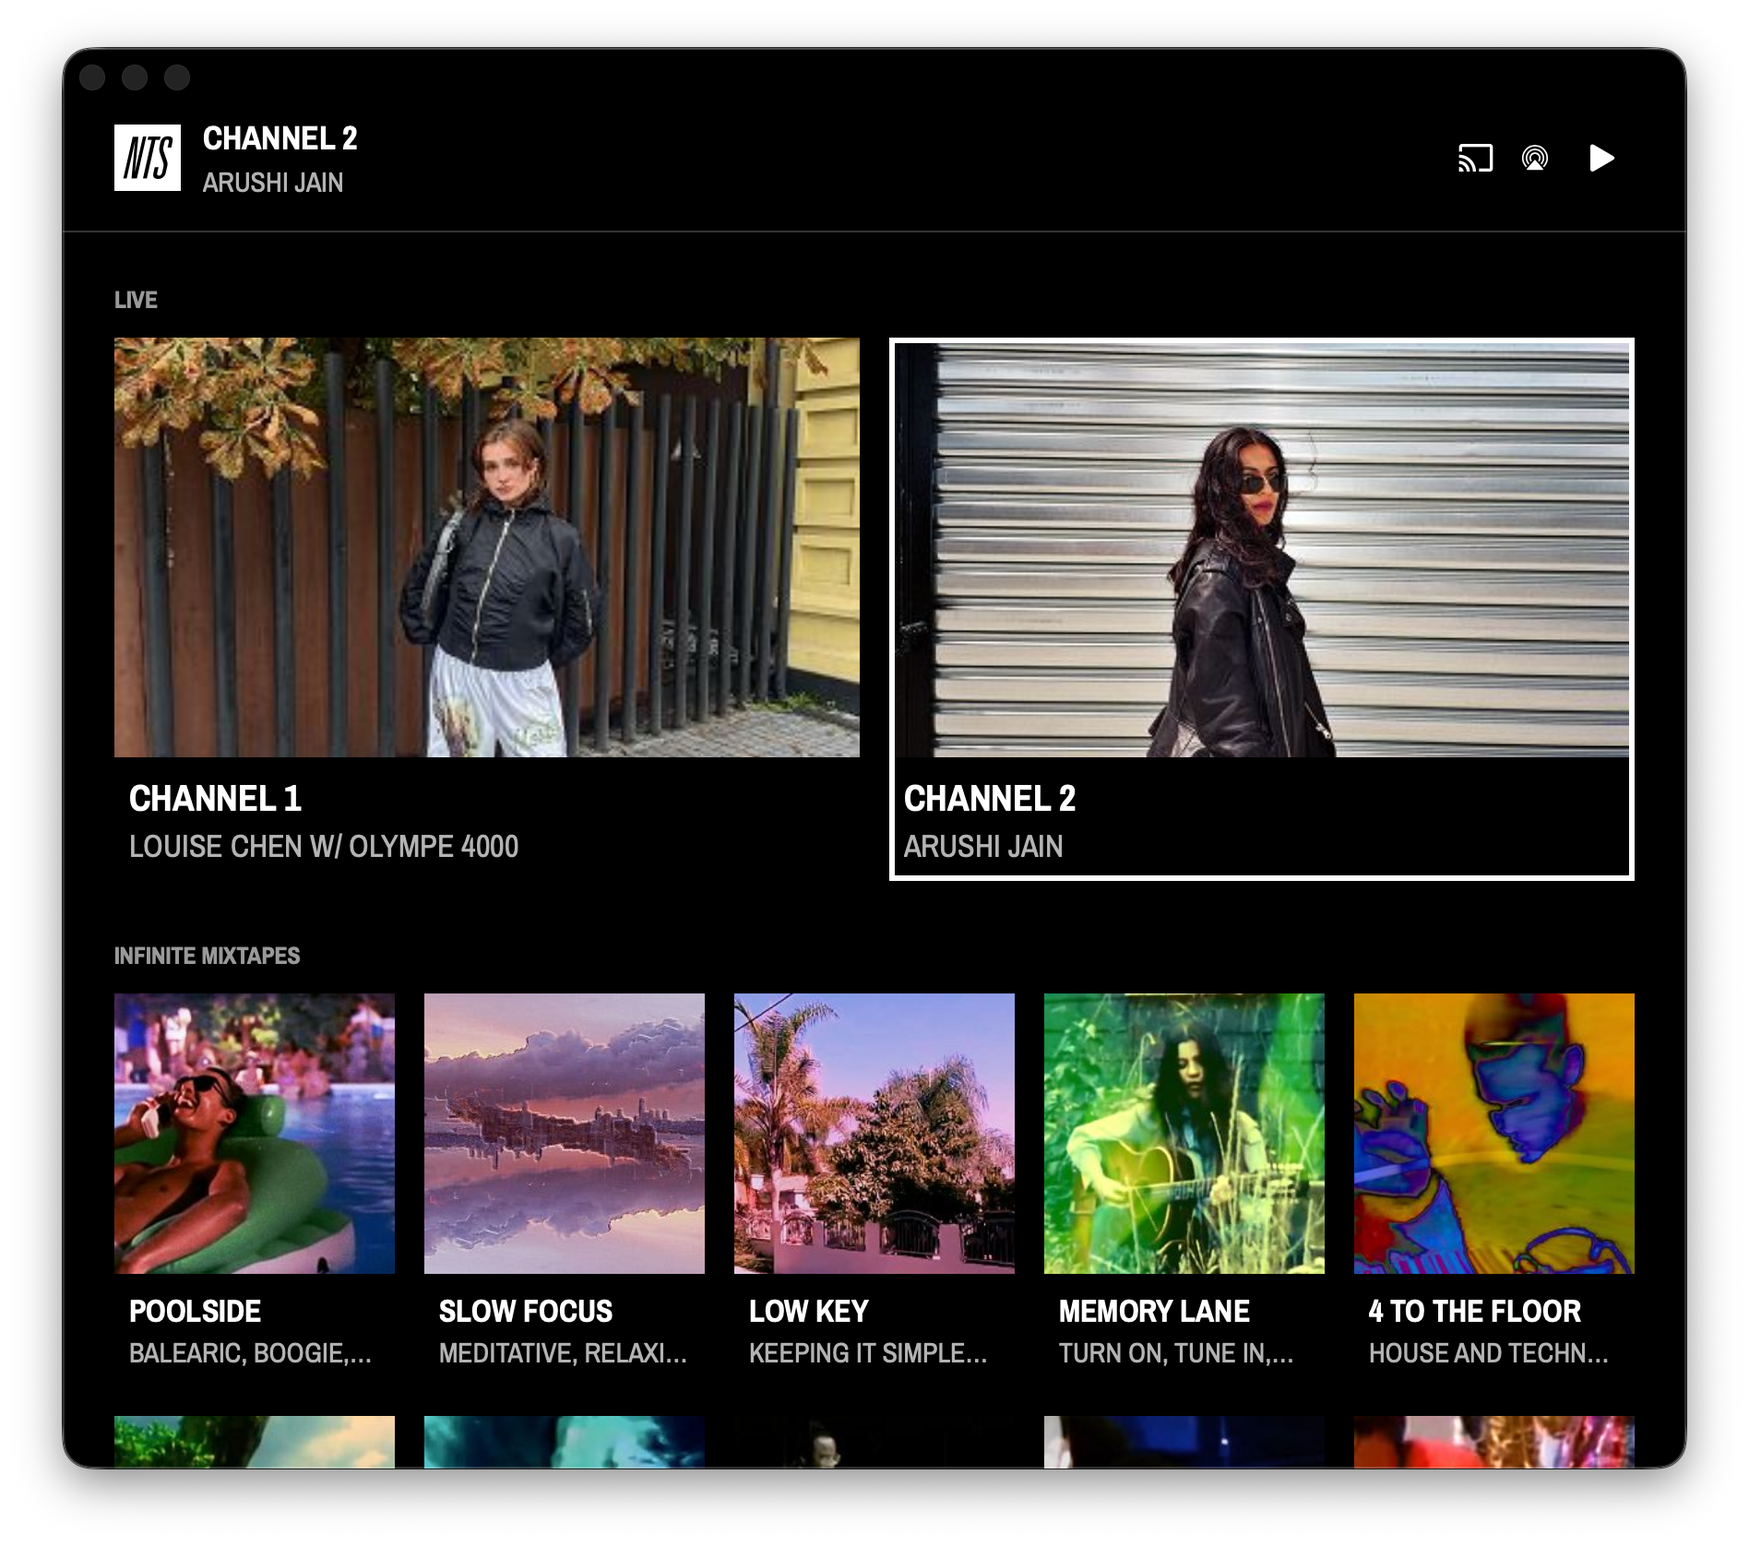
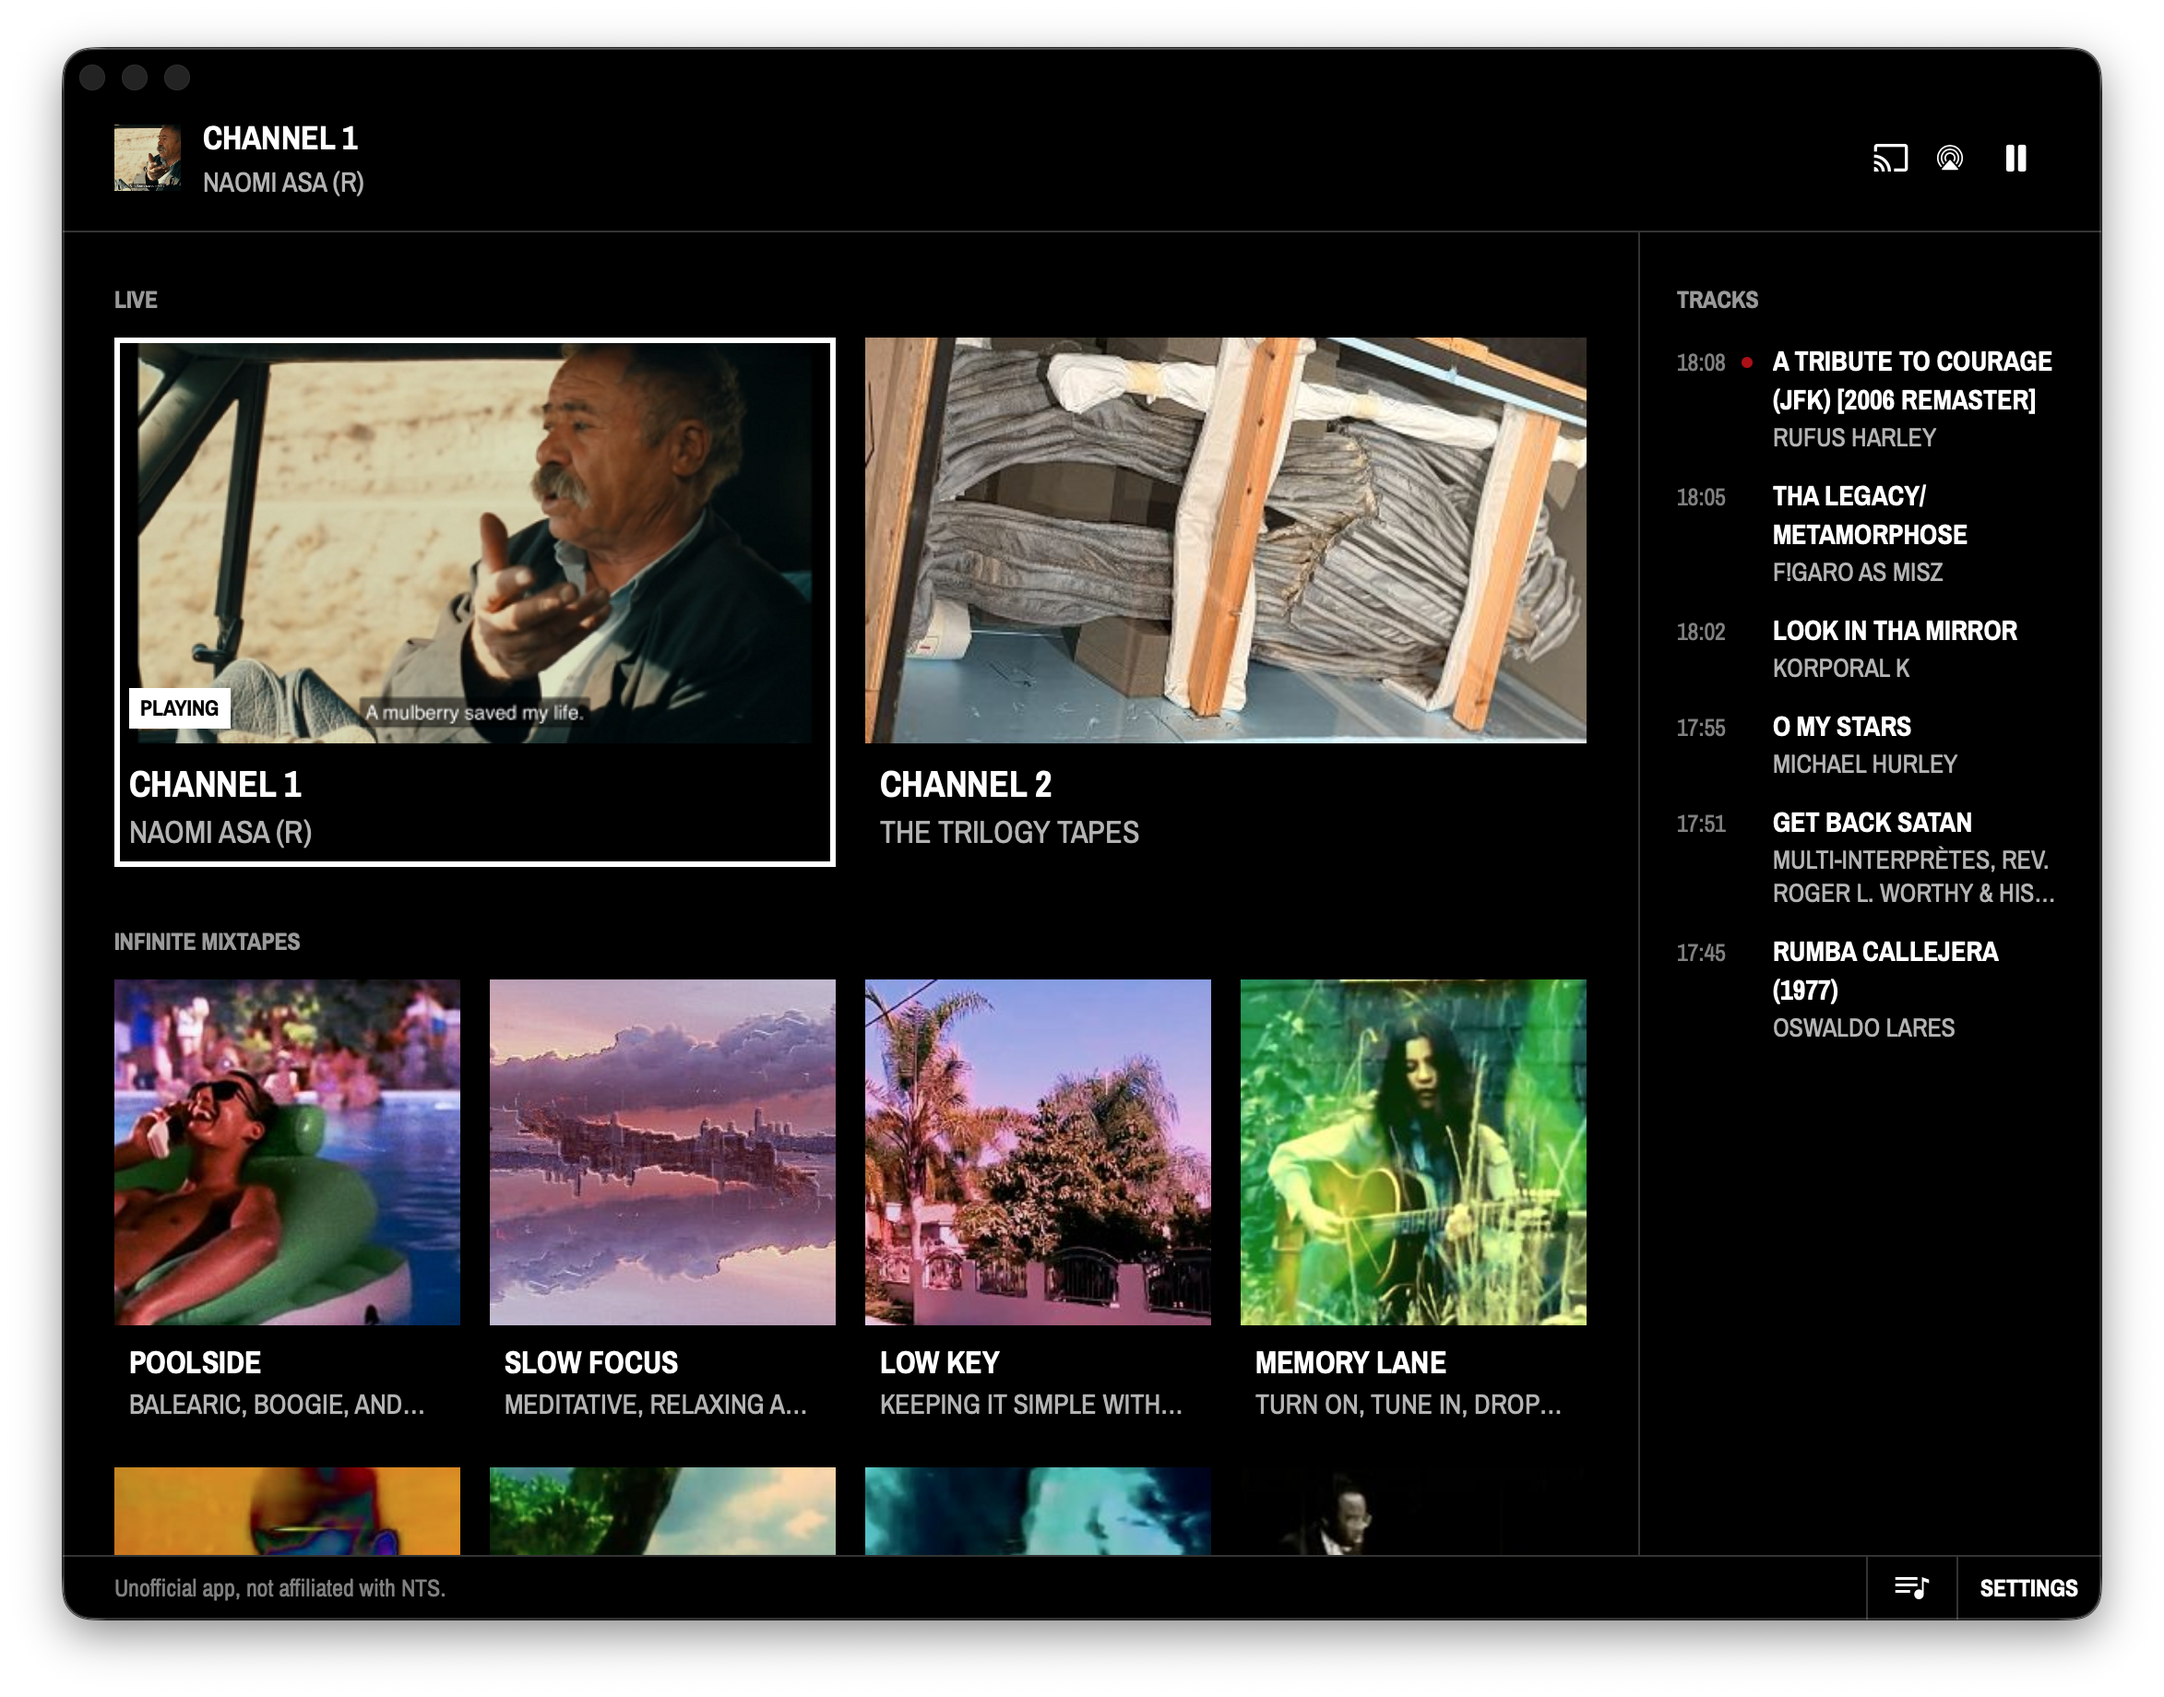
Describe tracks in the README with new screenshots

diff --git a/README.md b/README.md
@@ -13,21 +13,39 @@
   <a href="https://github.com/sanderjn/nts-mac/releases/latest/download/NTS.dmg"><b>Download NTS for Mac</b></a>
 </p>
 
-Listen to [NTS](https://www.nts.live) from the menu bar: both live channels and the Infinite Mixtapes, on your Mac, a Chromecast, a Google speaker or an AirPlay device. Native Swift and SwiftUI, no Electron, no tracking, and no account needed to listen.
+Listen to [NTS](https://www.nts.live) from the menu bar: both live channels and the Infinite Mixtapes, on your Mac, a Chromecast, a Google speaker or an AirPlay device. NTS Supporters also see which track is playing. Native Swift and SwiftUI, no Electron, no tracking, and no account needed to listen.
 
 This is a fan project. It is not made by, affiliated with or endorsed by NTS.
 
-![The NTS window with both live channels and the Infinite Mixtapes](assets/window.png)
+![The NTS window with both live channels, the Infinite Mixtapes and the tracks that just played](assets/window.png)
 
 ## Features
 
-- Live channels 1 and 2 with the show that is on now, plus all Infinite Mixtapes.
-- Lives in the menu bar, with a full window when you want one.
-- Google Cast to a Chromecast, Google TV or Nest speaker, with a volume slider for the device.
-- AirPlay to any AirPlay speaker or TV.
-- Media keys and Control Center show and control what is playing.
-- For NTS Supporters: the track that is playing, and the tracks before it.
-- Settings to launch at login and to hide the Cast or AirPlay button.
+- **Live channels 1 and 2** with the show that is on now, plus all **Infinite Mixtapes**.
+- **Menu bar first:** pick a station from the popover, open the full window when you want one.
+- **Google Cast** to a Chromecast, Google TV or Nest speaker, with a volume slider for the device.
+- **AirPlay** to any AirPlay speaker or TV.
+- **Media keys and Control Center** show and control what is playing.
+- **Tracks for NTS Supporters:** the track that is playing and the ones before it, see below.
+- **Settings** to launch at login and to hide the Cast or AirPlay button.
+
+## Tracks
+
+<img src="assets/popover.png" width="300" align="right" alt="The menu bar popover with the playing track under the show">
+
+NTS recognises the tracks on its streams and shows them to its [Supporters](https://www.nts.live/supporters). Sign in with your NTS account under **Settings → NTS account** and the app shows them too:
+
+- **In the window:** the last ten tracks next to the stations, with a red dot on the one that is playing. The button at the bottom hides the list.
+- **In the menu bar:** the playing track under the show.
+- **In Control Center:** the playing track, next to the show.
+- **Click a track** to copy its artist and title.
+- **Track notifications:** a notification when a new track starts. Off until you turn it on in the settings.
+
+Talk and unrecognised music show no track. Without an account none of this shows, and the app is a player and nothing more.
+
+Your password goes straight to the sign-in NTS itself uses and is not saved. What keeps you signed in is a token in your macOS keychain, which **Sign out** removes. After you update the app, macOS may ask once if NTS may use that keychain item.
+
+<br clear="right">
 
 ## Install
 
@@ -51,17 +69,7 @@ Built for macOS 14 and later, Apple Silicon and Intel.
 
 ## Settings
 
-Open them from the menu bar popover, or with <kbd>⌘</kbd><kbd>,</kbd> while the window is open.
-
-<img src="assets/settings.png" width="448" alt="The settings window">
-
-## Tracks
-
-NTS recognises the tracks on its streams and shows them to its [Supporters](https://www.nts.live/supporters). Sign in with your NTS account under **Settings → NTS account** and the app shows the playing track under the show, in Control Center, and in a list of recent tracks in the window. Talk and unrecognised music show no track.
-
-Click a track to copy its artist and title. With **Track notifications** on in the settings, macOS shows a notification when a new track starts.
-
-Your password goes straight to the sign-in NTS itself uses and is not saved. What keeps you signed in is a token in your macOS keychain, which **Sign out** removes. After you update the app, macOS may ask once if NTS may use that keychain item.
+Open them from the menu bar popover, from the bottom of the window, or with <kbd>⌘</kbd><kbd>,</kbd> while the window is open.
 
 ## Building from source
 
@@ -95,4 +103,4 @@ There is no Google Cast SDK for macOS, so the app speaks the Cast protocol itsel
 
 MIT, see [LICENSE](LICENSE). The bundled typeface is [Archivo Narrow](https://github.com/Omnibus-Type/ArchivoNarrow), under the [SIL Open Font License](Resources/ArchivoNarrow-OFL.txt).
 
-NTS, the NTS logo and everything you hear and see from the stations belong to NTS. The logo is used here only to show what the app plays, and is not covered by the MIT license. If you like NTS, [support them](https://www.nts.live/supporters).
+NTS, the NTS logo, the tracklist icon and everything you hear and see from the stations belong to NTS. The logo and the icon are used here only to show what the app plays, and are not covered by the MIT license. If you like NTS, [support them](https://www.nts.live/supporters).
